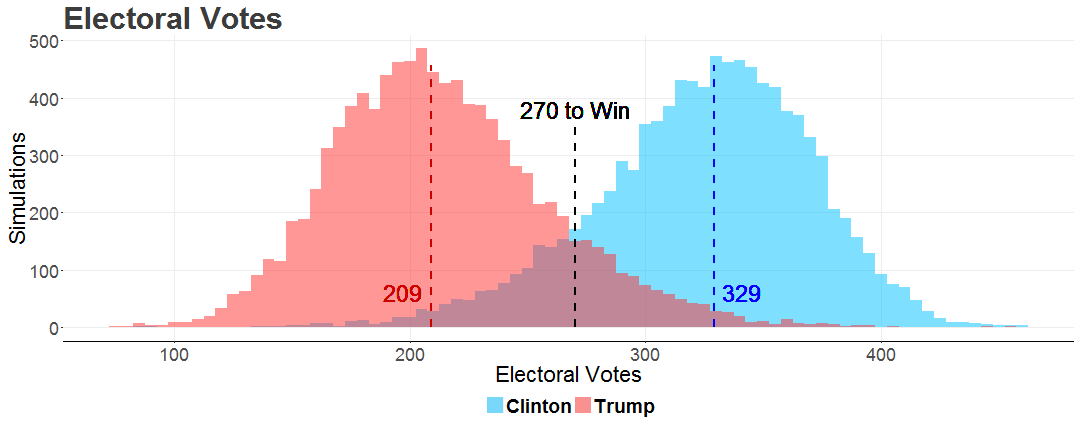
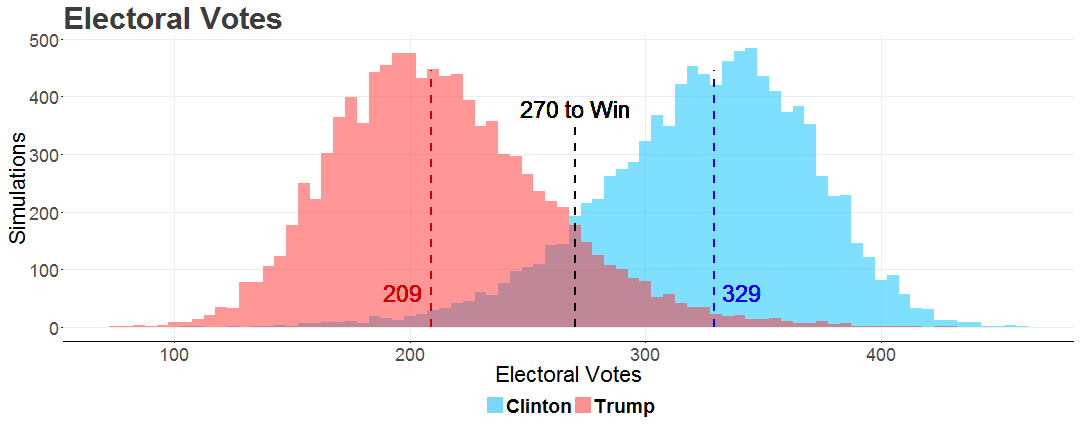
update

diff --git a/index.html b/index.html
@@ -266,7 +266,7 @@ table#t1 th {
           </div>
           <p></p>
       <div class="container" style="text-align: center;">
-        <h1><div class="alert alert-info" role="alert">Hillary Clinton has an 88.2% chance of being president</div></h1>    
+        <h1><div class="alert alert-info" role="alert">Hillary Clinton has an 88.4% chance of being president</div></h1>    
       </div>
         </div>
           <div style="text-align:right;">
@@ -420,35 +420,35 @@ table#t1 th {
           </tr>
           <tr id='t1'>
             <th id='t1'>Clinton victory while losing at least 1 swing state <small>(FL, VA, NC, PA, OH)</small></th>
-            <th id='t1'>61.3%</th>
+            <th id='t1'>62.3%</th>
           </tr>
           <tr id='t1'>
             <td id='t1'>Trump victory while losing at least 1 swing state <small>(FL, VA, NC, PA, OH)</small></td>
-            <td id='t1'>11.3%</td>
+            <td id='t1'>10.9%</td>
           </tr>
           <tr id='t1'>
             <th id='t1'>Clinton wins all 5 swing states</th>
-            <th id='t1'>27.1%</th>
+            <th id='t1'>26.4%</th>
           </tr>
           <tr id='t1'>
             <td id='t1'>Trump wins all 5 swing states</td>
-            <td id='t1'>0.3%</td>
+            <td id='t1'>0.4%</td>
           </tr>
           <tr id='t1'>
             <th id='t1'>Clinton outperforms Obama 2012 <small>(>332 EV)</small></th>
-            <th id='t1'>46.4%</th>
+            <th id='t1'>47%</th>
           </tr>
           <tr id='t1'>
             <td id='t1'>Trump outperforms Romney 2012 <small>(>206 EV)</small></td>
-            <td id='t1'>52.5%</td>
+            <td id='t1'>52.2%</td>
           </tr>
           <tr id='t1'>
             <th id='t1'>Clinton blowout <small>(>380 EV)</small></th>
-            <th id='t1'>9.2%</th>
+            <th id='t1'>9.4%</th>
           </tr>
           <tr id='t1'>
             <td id='t1'>Trump blowout <small>(>380 EV)</small></td>
-            <td id='t1'>0.1%</td>
+            <td id='t1'>0.2%</td>
           </tr>
         </table>
       
